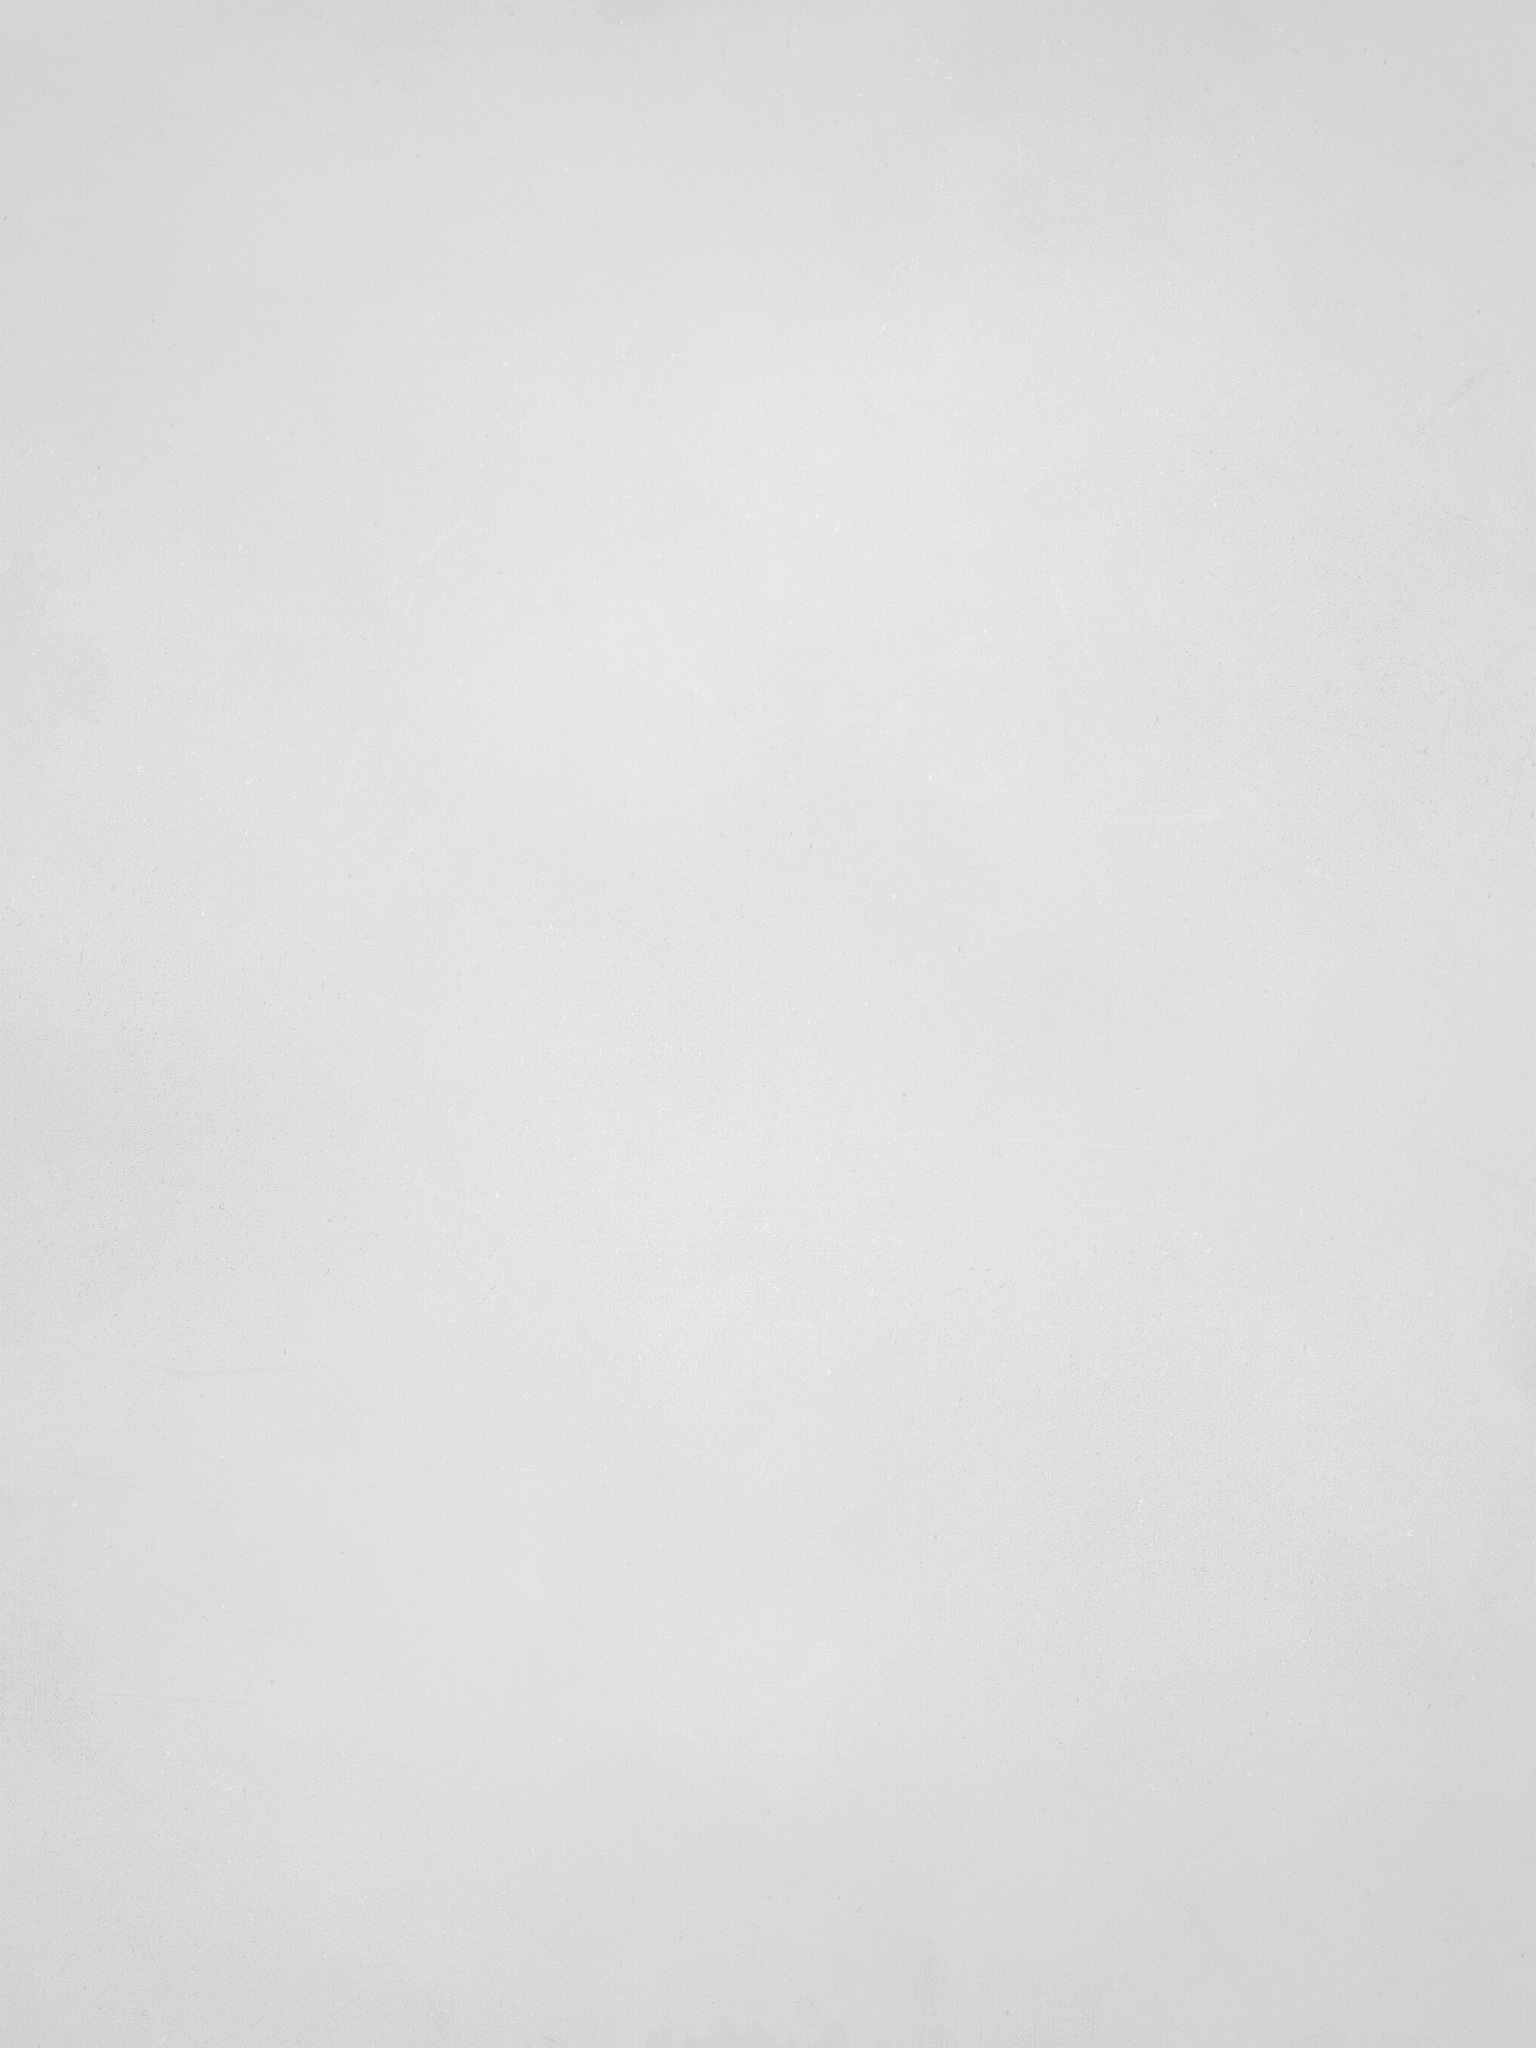
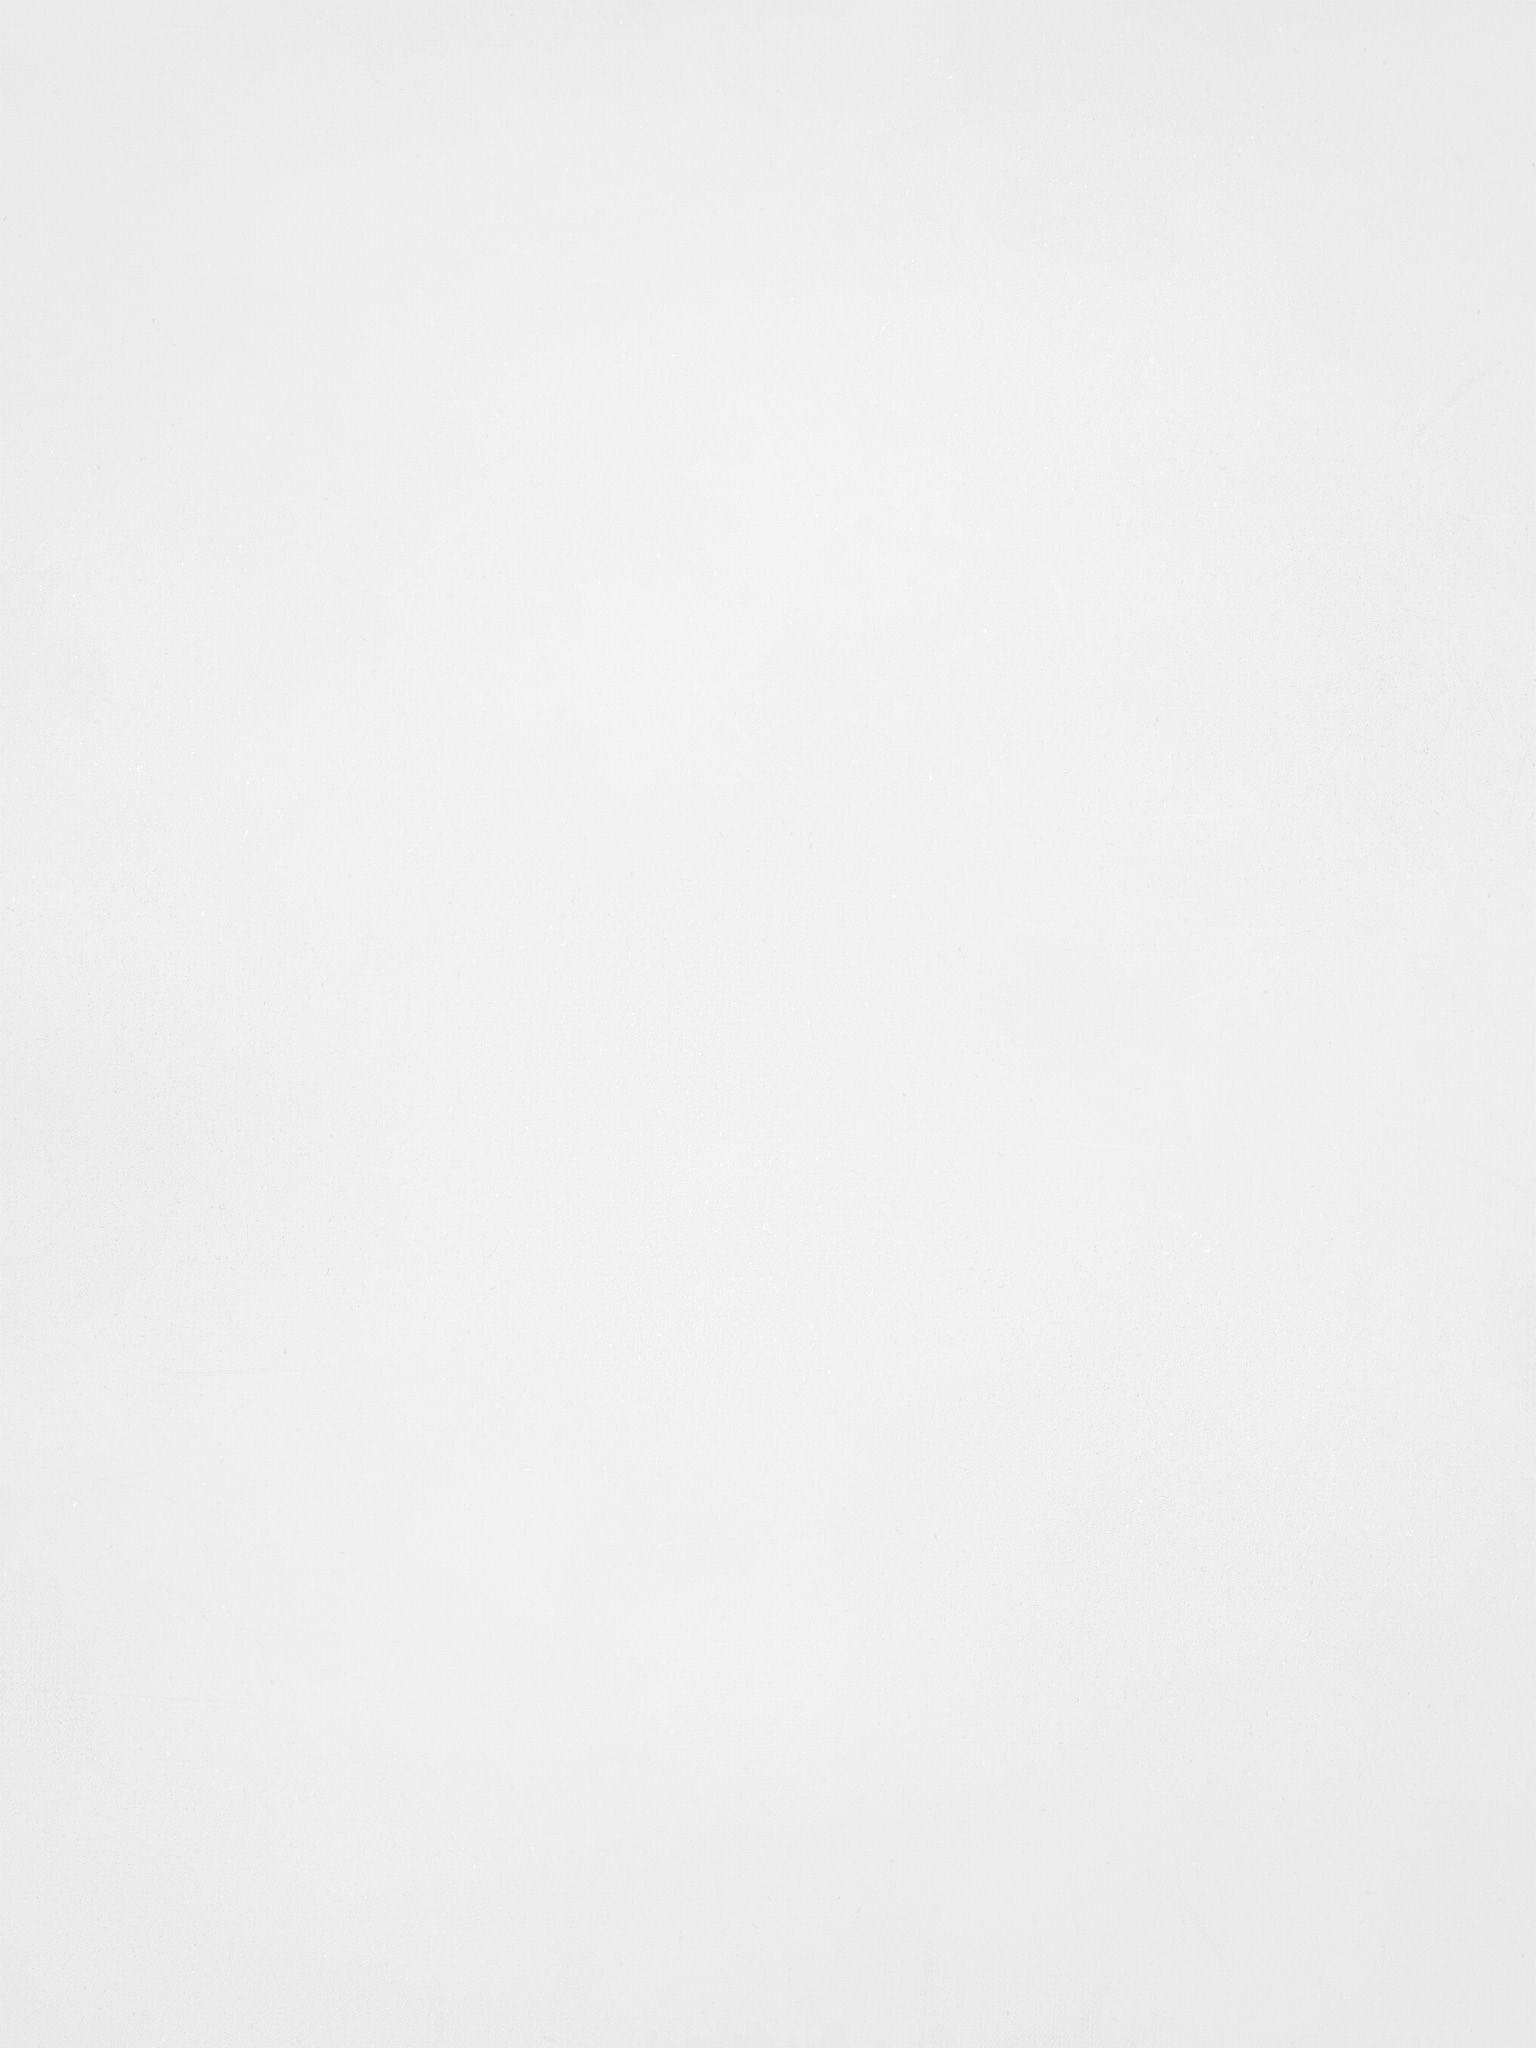
added basic information and new background

diff --git a/views/application.sass b/views/application.sass
@@ -4,34 +4,105 @@
 body
   background: url(/images/bg.jpg)
   color: #333
-  font: 14px "Interstate Light"
+  font: 13px "Interstate Light"
+
+::selection
+  background: #F60
+  color: #FFF
+
+a
+  color: #000
+
+em
+  font-style: italic
+
+strong
+  color: #000
+  font-family: Interstate
+
+h1
+  background: url(/images/waveformjs.png)
+  display: inline-block
+  height: 100px
+  text-indent: -3000px
+  width: 526px
+
+h2
+  font: 24px Interstate
+  margin: 25px 0
+
+h4
+  color: #000
+  font: 14px Interstate
+  margin: 20px 0 15px 0
+
+h2, h4
+  em
+    font: normal normal 12px "Interstate Light"
+
+p
+  line-height: 20px
+  margin: 25px 0
+
+code, pre
+  font: 12px Monaco, Consolas, "Lucida Console", monospace
+
+code
+  background: white
+  border: 1px solid #DDD
+  padding: 0px 3px
+
+pre
+  border-color: #F60
+  border-style: solid
+  border-width: 0 4px
+  padding: 2px 0 2px 15px
 
 nav
   background: white
   border-right: 1px solid #BBB
+  bottom: 0
   @include box-shadow(rgba(black, 0.25) 0 0 10px)
-  width: 230px
+  left: 0
+  padding: 40px 30px 0 30px
   position: fixed
   top: 0
-  left: 0
-  bottom: 0
+  width: 170px
+
+  ul
+    font-size: 12px
+    &:nth-child(2)
+      li:before
+        content: "\00BB \0020"
+    li:before
+      content: "-"
+    a
+      text-decoration: none
+      &:hover
+        text-decoration: underline
 
 section
   position: relative
-  margin: 50px 0 0 280px
+  margin: 50px 0 50px 280px
   width: 550px
 
-  h1
-    background: url(/images/waveformjs.png)
-    display: inline-block
-    height: 100px
-    text-indent: -3000px
-    width: 526px
+a.button
+  background-color: white
+  @include background(linear-gradient(top, rgba(white, .8) 0%, rgba(245, 245, 245, .4) 50%, rgba(160, 160, 160, .1) 100%))
+  border-width: 1px
+  border-style: solid
+  border-color: rgba(black, .04) rgba(black, .08) rgba(black, .14)
+  @include border-radius(4px)
+  @include box-shadow(inset 0 -1px 0 rgba(white, .2))
+  @include box-sizing(border-box)
+  color: #333
+  display: inline-block
+  font-size: 14px
+  padding: 6px 12px
+  text-decoration: none
+  @include text-shadow(0 1px 0 white)
+  @include transition(all 0.2s linear)
 
-  h2
-    font: 24px "Interstate"
-    margin: 25px 0
-
-  p
-    line-height: 20px
-    margin: 25px 0
+  &:hover
+    @include box-shadow(0 0 4px rgba(black, 0.2))
+    border: 1px solid #b0b0b0
